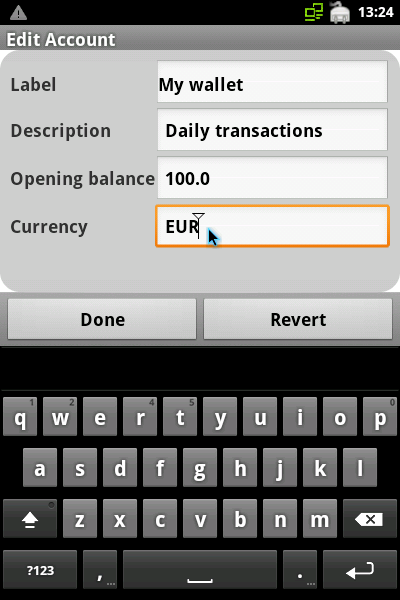
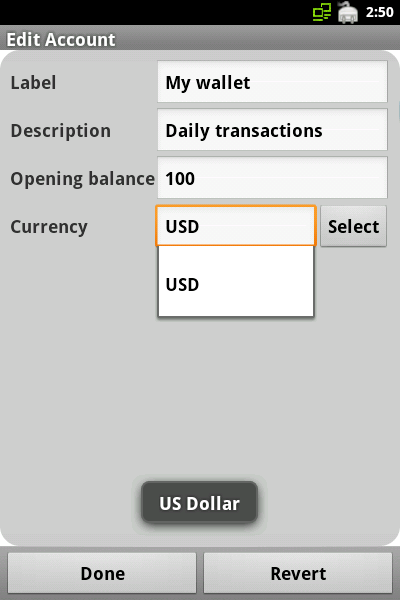
new screenshots, handling of currency explained

diff --git a/tutorial/en/tutorial1.html b/tutorial/en/tutorial1.html
@@ -2,23 +2,30 @@
       <span lang="en">Managing accounts</span>
       
       
+      
     </a></span><span> | </span></dt><dt><span class="sect1"><a href="tutorial2.html">
       <span lang="en">Managing transactions</span>
+      
       
       
     </a></span><span> | </span></dt><dt><span class="sect1"><a href="tutorial3.html">    
       <span lang="en">Managing categories</span>
       
       
-    </a></span><span> | </span></dt><dt><span class="sect1"><a href="tutorial4.html">      <span lang="en">Export transactions</span>
-    
-    
+      
+    </a></span><span> | </span></dt><dt><span class="sect1"><a href="tutorial4.html">
+      <span lang="en">Export transactions</span>
+      
+      
+      
     </a></span><span> | </span></dt><dt><span class="sect1"><a href="tutorial5.html">
       <span lang="en">Backup and restore</span>
       
       
+      
     </a></span></dt></dl></div><div class="sect1" title="Managing accounts"><div class="titlepage"><div><div><h2 class="title" style="clear: both"><a name="tutorial1"></a>
       <span lang="en">Managing accounts</span>
+      
       
       
     </h2></div></div></div><p lang="en">
@@ -34,6 +41,8 @@
       </p><div class="screenshot"><div><img src="step2.png"></div></div><p>
     </p><p lang="en">
       Enter a label, a description, the opening balance, and a currency for the account.
+      The currency must be entered according to its three-letter code in ISO 4217, but can be chosen easily
+      from a list by clicking on the <span class="guibutton">Select</span> button.
     </p><p><a name="step3"></a>
       </p><div class="screenshot"><div><img src="step3.png"></div></div><p>
     </p><p lang="en">

diff --git a/tutorial/en/tutorial2.html b/tutorial/en/tutorial2.html
@@ -2,23 +2,30 @@
       <span lang="en">Managing accounts</span>
       
       
+      
     </a></span><span> | </span></dt><dt><span class="sect1"><a>
       <span lang="en">Managing transactions</span>
+      
       
       
     </a></span><span> | </span></dt><dt><span class="sect1"><a href="tutorial3.html">    
       <span lang="en">Managing categories</span>
       
       
-    </a></span><span> | </span></dt><dt><span class="sect1"><a href="tutorial4.html">      <span lang="en">Export transactions</span>
-    
-    
+      
+    </a></span><span> | </span></dt><dt><span class="sect1"><a href="tutorial4.html">
+      <span lang="en">Export transactions</span>
+      
+      
+      
     </a></span><span> | </span></dt><dt><span class="sect1"><a href="tutorial5.html">
       <span lang="en">Backup and restore</span>
       
       
+      
     </a></span></dt></dl></div><div class="sect1" title="Managing transactions"><div class="titlepage"><div><div><h2 class="title" style="clear: both"><a name="tutorial2"></a>
       <span lang="en">Managing transactions</span>
+      
       
       
     </h2></div></div></div><p><a name="step4"></a>
@@ -41,6 +48,7 @@
       </p><div class="screenshot"><div><img src="step6.png"></div></div><p>
     </p><div class="sect2" title="Transfer"><div class="titlepage"><div><div><h3 class="title"><a name="tutorial2.1"></a>
         <span lang="en">Transfer</span>
+        
         
         
       </h3></div></div></div><p lang="en">

diff --git a/tutorial/de/tutorial5.html b/tutorial/de/tutorial5.html
@@ -2,25 +2,32 @@
       
       
       <span lang="de">Verwaltung der Konten</span>
+      
     </a></span><span> | </span></dt><dt><span class="sect1"><a href="tutorial2.html">
       
       
       <span lang="de">Verwaltung der Buchungen</span>
+      
     </a></span><span> | </span></dt><dt><span class="sect1"><a href="tutorial3.html">    
       
       
       <span lang="de">Verwaltung der Kategorien</span>
-    </a></span><span> | </span></dt><dt><span class="sect1"><a href="tutorial4.html">      
-    
-    <span lang="de">Buchungen exportieren</span>
+      
+    </a></span><span> | </span></dt><dt><span class="sect1"><a href="tutorial4.html">
+      
+      
+      <span lang="de">Buchungen exportieren</span>
+      
     </a></span><span> | </span></dt><dt><span class="sect1"><a>
       
       
       <span lang="de">Backup und Wiederherstellung</span>
+      
     </a></span></dt></dl></div><div class="sect1" title="Backup und Wiederherstellung"><div class="titlepage"><div><div><h2 class="title" style="clear: both"><a name="tutorial5"></a>
       
       
       <span lang="de">Backup und Wiederherstellung</span>
+      
     </h2></div></div></div><p lang="de">
       <span class="guimenuitem">Backup</span> erzeugt eine Sicherungskopie von Datenbank und
       Einstellungen im <code class="filename">myexpenses</code> Ordner auf der SD-Karte. Die
